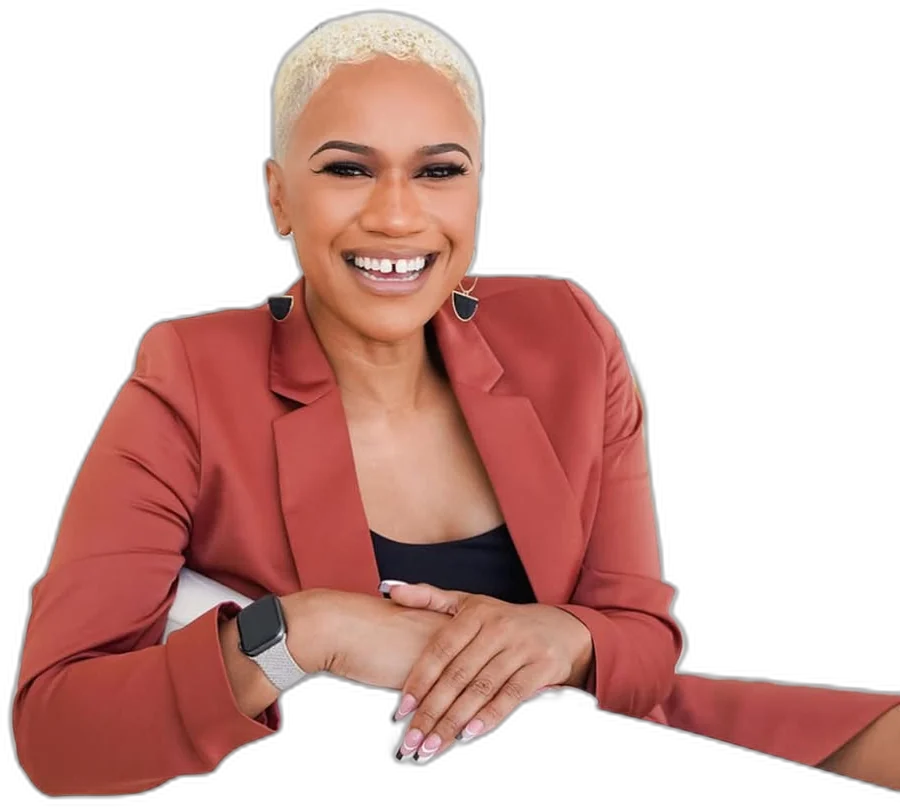
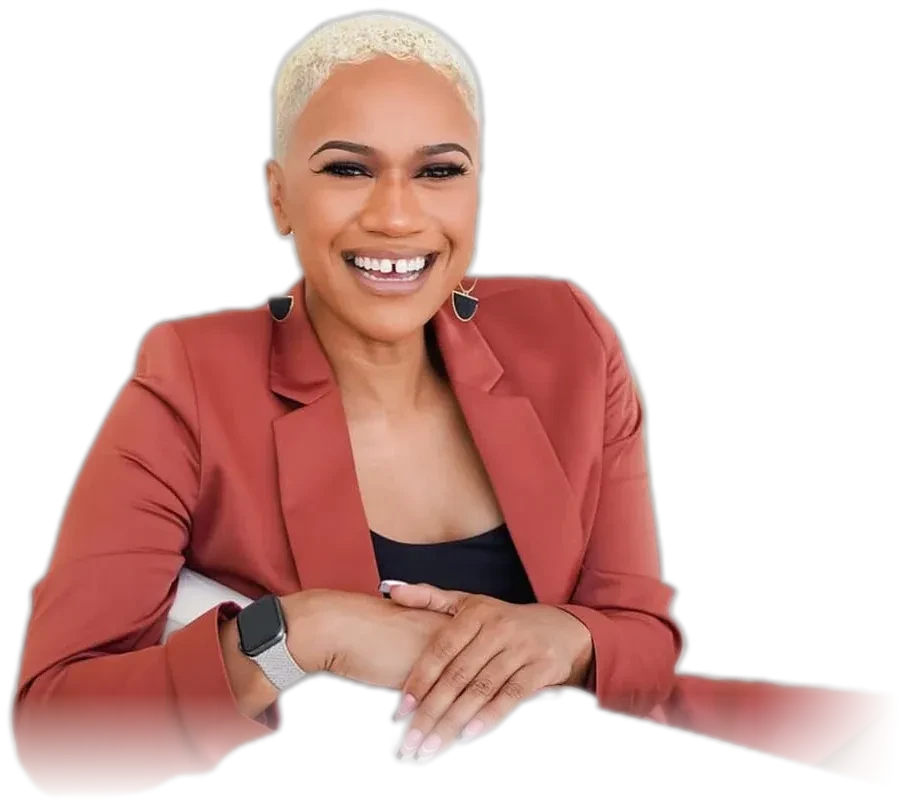
Add files via upload

diff --git a/index.html b/index.html
@@ -63,7 +63,7 @@ nav.open .menu-btn span:last-child{top:19px;transform:rotate(-45deg)}
 .hero-copy{position:relative;z-index:2;padding-block:80px;max-width:640px}
 .hero-copy p{font-size:16px;color:var(--text);max-width:440px;margin:26px 0 22px;line-height:1.5}
 .hero-img{position:absolute;right:clamp(0px,3vw,60px);bottom:0;height:94%;max-height:800px;width:auto;max-width:56%;z-index:1;display:flex;align-items:flex-end;justify-content:center}
-.hero-img img{height:100%;width:auto;object-fit:contain;object-position:bottom;-webkit-mask-image:linear-gradient(90deg,transparent 0,#000 14%);mask-image:linear-gradient(90deg,transparent 0,#000 14%)}
+.hero-img img{height:100%;width:auto;object-fit:contain;object-position:bottom;-webkit-mask-image:var(--hero-mask,linear-gradient(90deg,transparent 0,#000 14%));mask-image:var(--hero-mask,linear-gradient(90deg,transparent 0,#000 14%));-webkit-mask-composite:source-in;mask-composite:intersect}
 
 
 /* video band (sits just below the hero) */
@@ -89,7 +89,7 @@ nav.open .menu-btn span:last-child{top:19px;transform:rotate(-45deg)}
 .wordmark b{font-size:18px;letter-spacing:.06em;font-weight:500}
 .pills{display:flex;flex-wrap:wrap;gap:8px}
 .pill{border:1px solid #444;border-radius:999px;padding:5px 11px;font-size:13px;color:#333;white-space:nowrap}
-.card.dark{background:var(--taupe-card);color:#fff}
+.card.dark{background:var(--card-dark,var(--taupe-card));color:#fff}
 .card.dark .big,.card.dark .lbl{color:#fff}
 .card.dark blockquote{font-size:clamp(19px,1.6vw,22px);line-height:1.35}
 
@@ -216,14 +216,14 @@ nav.open .menu-btn span:last-child{top:19px;transform:rotate(-45deg)}
 .cta-copy .script{font-size:clamp(46px,4.4vw,64px);line-height:1;color:var(--cta-script,var(--gold))}
 .cta-copy h2{color:var(--cta-text,#fff);margin:6px 0 28px}
 .cta-copy .link-arrow{color:var(--cta-link,#fff)}
-.cta-img{position:absolute;top:0;right:0;bottom:0;width:min(58%,820px);z-index:1}
-.cta-img img{width:100%;height:100%;object-fit:cover;object-position:center 18%;-webkit-mask-image:linear-gradient(90deg,transparent 0%,rgba(0,0,0,.55) 22%,#000 48%);mask-image:linear-gradient(90deg,transparent 0%,rgba(0,0,0,.55) 22%,#000 48%)}
+.cta-img{position:absolute;top:0;right:0;bottom:0;width:var(--cta-img-w,min(58%,820px));z-index:1}
+.cta-img img{width:100%;height:100%;object-fit:cover;object-position:center 18%;-webkit-mask-image:var(--cta-mask,linear-gradient(90deg,transparent 0%,rgba(0,0,0,.55) 22%,#000 48%));mask-image:var(--cta-mask,linear-gradient(90deg,transparent 0%,rgba(0,0,0,.55) 22%,#000 48%))}
 .cta-img::after{content:"";position:absolute;inset:0;background:var(--cta-shade,linear-gradient(0deg,rgba(107,101,92,.55),transparent 30%));pointer-events:none}
 
 /* footer */
-footer{background:var(--black);color:#e9e9e9;padding-block:50px 40px;font-size:14px}
+footer{background:var(--footer-bg,var(--black));color:#e9e9e9;padding-block:50px 40px;font-size:14px}
 .fgrid{display:grid;grid-template-columns:1.6fr 1fr 1fr auto;gap:32px}
-footer .logo{font-size:40px}
+footer .logo{font-size:40px;color:var(--footer-logo,var(--gold))}
 footer .lic{margin-top:14px;line-height:1.55;max-width:360px}
 footer nav{all:unset}
 .fcol{display:flex;flex-direction:column;gap:16px}
@@ -292,7 +292,7 @@ footer nav{all:unset}
   nav .logo{font-size:26px}
   .fgrid{grid-template-columns:1fr}
 }
-:root{--gold:#9b3f35;--taupe:#5e6b3a;--taupe-card:#6e7b48;--sand:#f6f5f0;--night:#2f3a1f;--ink:#1d1f17;--cta-script:#9b3f35;--cta-bg:#ffffff;--cta-text:#1d1f17;--cta-link:#5e6b3a;--cta-shade:none;--btn:#b0533f;--btn-hover:#8f3f30;--video-script:#ffffff;}
+:root{--gold:#9b3f35;--taupe:#5e6b3a;--taupe-card:#6e7b48;--sand:#f6f5f0;--night:#2f3a1f;--ink:#1d1f17;--cta-script:#9b3f35;--cta-bg:#ffffff;--cta-text:#1d1f17;--cta-link:#5e6b3a;--cta-shade:none;--btn:#b0533f;--btn-hover:#8f3f30;--video-script:#ffffff;--footer-bg:#b0533f;--card-dark:#b0533f;--cta-img-w:100%;--cta-mask:linear-gradient(90deg,transparent 0%,rgba(0,0,0,.15) 28%,rgba(0,0,0,.85) 52%,#000 64%);--hero-mask:linear-gradient(90deg,transparent 0,#000 16%);--footer-logo:#ffffff;}
 </style>
 </head>
 <body>
@@ -330,7 +330,7 @@ footer nav{all:unset}
   <h2 class="rw center">Featured Communities</h2>
   <div class="rail-wrap fu">
     <div class="arrows"><button type="button" aria-label="Previous" data-dir="-1" data-rail="r1"><svg viewBox="0 0 16 16" fill="none" stroke="currentColor" stroke-width="2" aria-hidden="true"><path d="M10 3L5 8l5 5"/></svg></button><button type="button" aria-label="Next" data-dir="1" data-rail="r1"><svg viewBox="0 0 16 16" fill="none" stroke="currentColor" stroke-width="2" aria-hidden="true"><path d="M6 3l5 5-5 5"/></svg></button></div>
-    <div class="rail" id="r1"><a class="deal" href="https://www.jacksonvillejess.com/" target="_blank" rel="noopener"><div class="ph ph-text"><span><small>Search homes</small>3,475 listings</span></div><div class="row"><h3>Jacksonville</h3><span class="price">3,475 listings</span></div><div class="meta"><span>Duval County</span><span class="pill">Search homes</span></div></a><a class="deal" href="https://www.jacksonvillejess.com/" target="_blank" rel="noopener"><div class="ph ph-text"><span><small>Search homes</small>200 listings</span></div><div class="row"><h3>Ponte Vedra Beach</h3><span class="price">200 listings</span></div><div class="meta"><span>St. Johns County</span><span class="pill">Search homes</span></div></a><a class="deal" href="https://www.jacksonvillejess.com/" target="_blank" rel="noopener"><div class="ph ph-text"><span><small>Search homes</small>269 listings</span></div><div class="row"><h3>Orange Park</h3><span class="price">269 listings</span></div><div class="meta"><span>Clay County</span><span class="pill">Search homes</span></div></a><a class="deal" href="https://www.jacksonvillejess.com/" target="_blank" rel="noopener"><div class="ph ph-text"><span><small>Search homes</small>221 listings</span></div><div class="row"><h3>Fernandina Beach</h3><span class="price">221 listings</span></div><div class="meta"><span>Nassau County</span><span class="pill">Search homes</span></div></a><a class="deal" href="https://www.jacksonvillejess.com/" target="_blank" rel="noopener"><div class="ph ph-text"><span><small>Search homes</small>370 listings</span></div><div class="row"><h3>Green Cove Springs</h3><span class="price">370 listings</span></div><div class="meta"><span>Clay County</span><span class="pill">Search homes</span></div></a><a class="deal" href="https://www.jacksonvillejess.com/" target="_blank" rel="noopener"><div class="ph ph-text"><span><small>Search homes</small>295 listings</span></div><div class="row"><h3>Palm Coast</h3><span class="price">295 listings</span></div><div class="meta"><span>Flagler County</span><span class="pill">Search homes</span></div></a><a class="deal" href="https://www.jacksonvillejess.com/" target="_blank" rel="noopener"><div class="ph ph-text"><span><small>Search homes</small>300 listings</span></div><div class="row"><h3>Middleburg</h3><span class="price">300 listings</span></div><div class="meta"><span>Clay County</span><span class="pill">Search homes</span></div></a><a class="deal" href="https://www.jacksonvillejess.com/" target="_blank" rel="noopener"><div class="ph ph-text"><span><small>Search homes</small>211 listings</span></div><div class="row"><h3>Ponte Vedra</h3><span class="price">211 listings</span></div><div class="meta"><span>St. Johns County</span><span class="pill">Search homes</span></div></a></div>
+    <div class="rail" id="r1"><a class="deal" href="https://www.jacksonvillejess.com/" target="_blank" rel="noopener"><div class="ph"><img loading="lazy" src="jess-listing-1.jpg" alt="Jacksonville" onerror="this.style.visibility='hidden'"></div><div class="row"><h3>Jacksonville</h3><span class="price">3,475 listings</span></div><div class="meta"><span>Duval County</span><span class="pill">Search homes</span></div></a><a class="deal" href="https://www.jacksonvillejess.com/" target="_blank" rel="noopener"><div class="ph"><img loading="lazy" src="jess-listing-2.jpg" alt="Ponte Vedra Beach" onerror="this.style.visibility='hidden'"></div><div class="row"><h3>Ponte Vedra Beach</h3><span class="price">200 listings</span></div><div class="meta"><span>St. Johns County</span><span class="pill">Search homes</span></div></a><a class="deal" href="https://www.jacksonvillejess.com/" target="_blank" rel="noopener"><div class="ph"><img loading="lazy" src="jess-listing-3.jpg" alt="Orange Park" onerror="this.style.visibility='hidden'"></div><div class="row"><h3>Orange Park</h3><span class="price">269 listings</span></div><div class="meta"><span>Clay County</span><span class="pill">Search homes</span></div></a><a class="deal" href="https://www.jacksonvillejess.com/" target="_blank" rel="noopener"><div class="ph"><img loading="lazy" src="jess-listing-4.jpg" alt="Fernandina Beach" onerror="this.style.visibility='hidden'"></div><div class="row"><h3>Fernandina Beach</h3><span class="price">221 listings</span></div><div class="meta"><span>Nassau County</span><span class="pill">Search homes</span></div></a><a class="deal" href="https://www.jacksonvillejess.com/" target="_blank" rel="noopener"><div class="ph"><img loading="lazy" src="jess-listing-5.jpg" alt="Green Cove Springs" onerror="this.style.visibility='hidden'"></div><div class="row"><h3>Green Cove Springs</h3><span class="price">370 listings</span></div><div class="meta"><span>Clay County</span><span class="pill">Search homes</span></div></a><a class="deal" href="https://www.jacksonvillejess.com/" target="_blank" rel="noopener"><div class="ph"><img loading="lazy" src="jess-listing-6.jpg" alt="Palm Coast" onerror="this.style.visibility='hidden'"></div><div class="row"><h3>Palm Coast</h3><span class="price">295 listings</span></div><div class="meta"><span>Flagler County</span><span class="pill">Search homes</span></div></a><a class="deal" href="https://www.jacksonvillejess.com/" target="_blank" rel="noopener"><div class="ph"><img loading="lazy" src="jess-listing-3.jpg" alt="Middleburg" onerror="this.style.visibility='hidden'"></div><div class="row"><h3>Middleburg</h3><span class="price">300 listings</span></div><div class="meta"><span>Clay County</span><span class="pill">Search homes</span></div></a><a class="deal" href="https://www.jacksonvillejess.com/" target="_blank" rel="noopener"><div class="ph"><img loading="lazy" src="jess-listing-1.jpg" alt="Ponte Vedra" onerror="this.style.visibility='hidden'"></div><div class="row"><h3>Ponte Vedra</h3><span class="price">211 listings</span></div><div class="meta"><span>St. Johns County</span><span class="pill">Search homes</span></div></a></div>
   </div>
 </div></section>
 
@@ -430,5 +430,18 @@ footer nav{all:unset}
   });
 })();
 </script>
+<style>
+.house-cur{position:fixed;left:0;top:0;width:30px;height:30px;pointer-events:none;z-index:9999;opacity:0;transition:opacity .3s;will-change:transform}
+.house-cur svg{width:100%;height:100%;filter:drop-shadow(0 4px 8px rgba(0,0,0,.18))}
+.house-cur.on{opacity:1}
+.house-dot{position:fixed;left:0;top:0;width:8px;height:8px;border-radius:50%;background:var(--btn,var(--gold));pointer-events:none;z-index:9998;opacity:0;transition:opacity .6s,transform .9s ease-out}
+@media (hover:none),(pointer:coarse),(prefers-reduced-motion:reduce){.house-cur,.house-dot{display:none}}
+</style>
+<div class="house-cur" aria-hidden="true"><svg viewBox="0 0 32 32"><path d="M4 15 16 5l12 10" fill="none" stroke="var(--btn,var(--gold))" stroke-width="2.6" stroke-linecap="round" stroke-linejoin="round"/><path d="M7.5 13.5V27h17V13.5" fill="#fff" stroke="var(--taupe)" stroke-width="2.4" stroke-linejoin="round"/><rect x="13.5" y="18.5" width="5" height="8.5" rx="1" fill="var(--btn,var(--gold))"/><rect x="21" y="7" width="3" height="5" fill="var(--taupe)"/></svg></div>
+<script>(function(){if(!matchMedia('(hover:hover) and (pointer:fine)').matches||matchMedia('(prefers-reduced-motion: reduce)').matches)return;
+var h=document.querySelector('.house-cur'),x=0,y=0,cx=0,cy=0,last=0,r=0;
+addEventListener('mousemove',function(e){x=e.clientX;y=e.clientY;h.classList.add('on');var n=performance.now();if(n-last>90){last=n;var d=document.createElement('i');d.className='house-dot';d.style.transform='translate('+(x+6)+'px,'+(y+22)+'px)';document.body.appendChild(d);requestAnimationFrame(function(){d.style.opacity=.55;requestAnimationFrame(function(){d.style.opacity=0;d.style.transform+=' scale(.2)';});});setTimeout(function(){d.remove()},900);}});
+document.addEventListener('mouseleave',function(){h.classList.remove('on')});
+(function loop(){var dx=x-cx;cx+=dx*.18;cy+=(y-cy)*.18;r+=((Math.max(-18,Math.min(18,dx*.6)))-r)*.15;h.style.transform='translate('+(cx+14)+'px,'+(cy+12)+'px) rotate('+r+'deg)';requestAnimationFrame(loop);})();})();</script>
 </body>
 </html>
